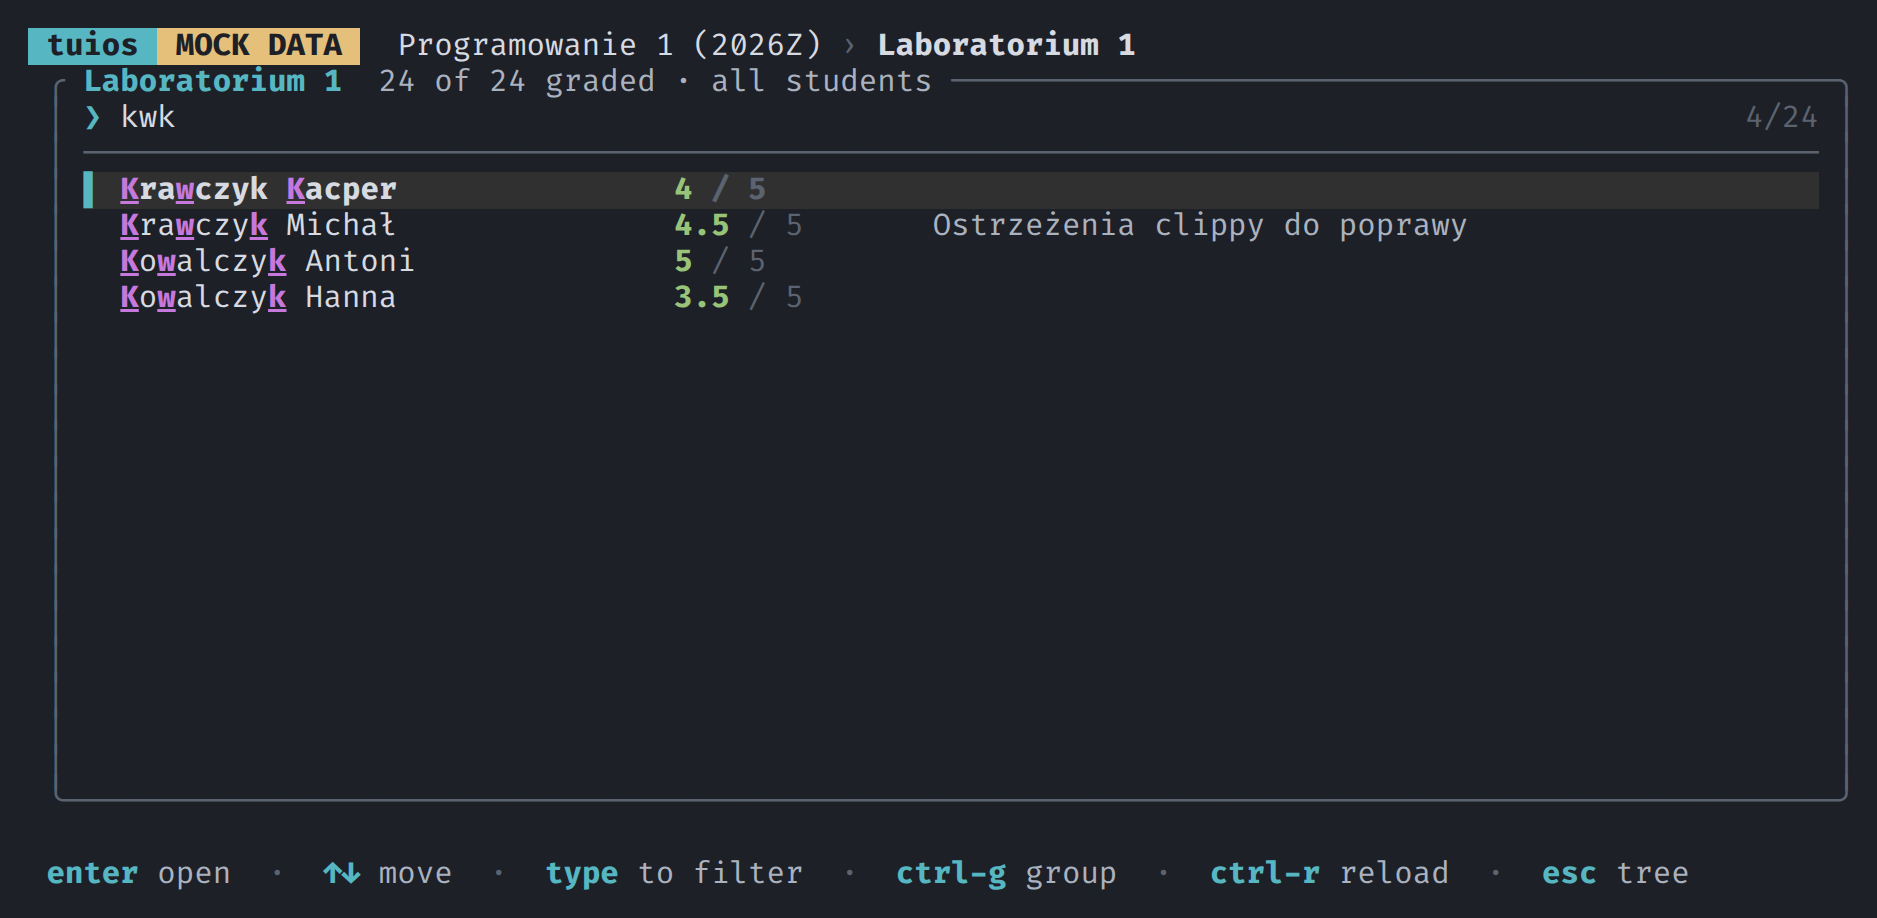
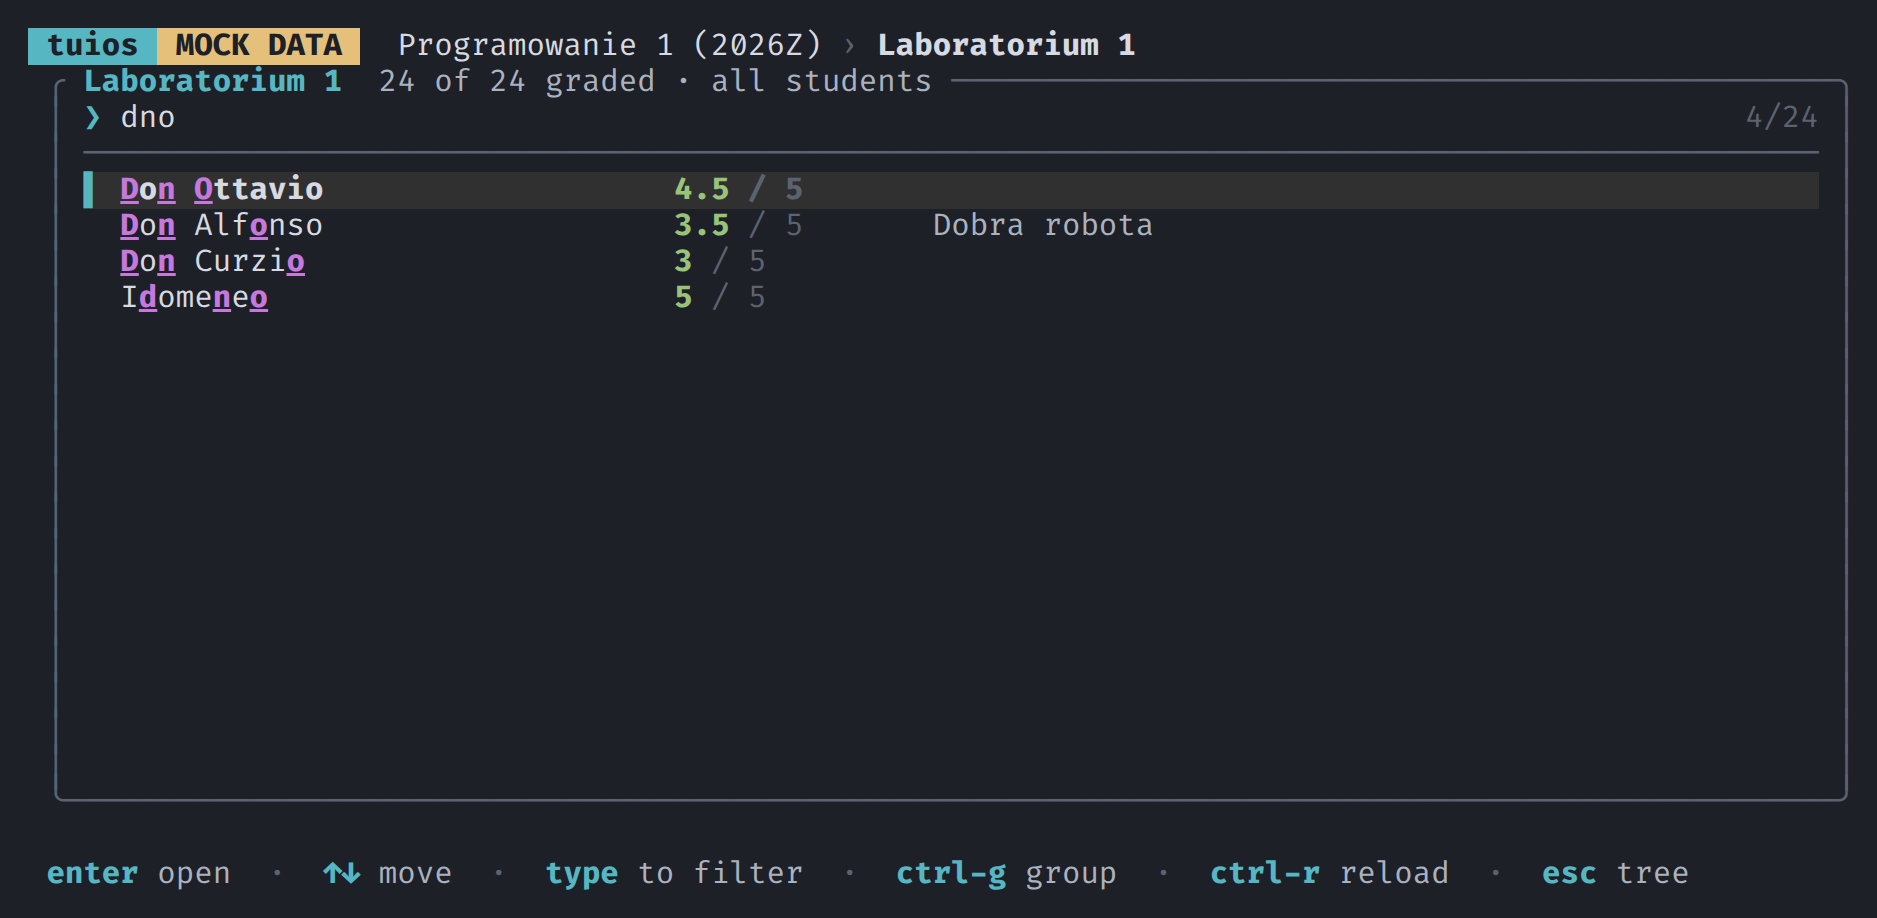
Name mock students after characters from Mozart's operas
Plausible Polish names made screenshots of the mock look like real
students; opera characters cannot be mistaken for anyone. The README
screenshots are retaken with the new cast.

diff --git a/src/usos.rs b/src/usos.rs
@@ -828,38 +828,60 @@ impl Rng {
 
 impl Mock {
     fn new() -> Self {
-        // (first name, takes the feminine surname form)
-        const FIRST: [(&str, bool); 16] = [
-            ("Anna", true),
-            ("Piotr", false),
-            ("Zofia", true),
-            ("Jakub", false),
-            ("Maja", true),
-            ("Kacper", false),
-            ("Julia", true),
-            ("Michał", false),
-            ("Hanna", true),
-            ("Antoni", false),
-            ("Lena", true),
-            ("Filip", false),
-            ("Oliwia", true),
-            ("Mikołaj", false),
-            ("Alicja", true),
-            ("Tymon", false),
-        ];
-        const LAST: [(&str, &str); 12] = [
-            ("Lewandowski", "Lewandowska"),
-            ("Wiśniewski", "Wiśniewska"),
-            ("Kowalczyk", "Kowalczyk"),
-            ("Zieliński", "Zielińska"),
-            ("Wójcik", "Wójcik"),
-            ("Kamiński", "Kamińska"),
-            ("Szymański", "Szymańska"),
-            ("Dąbrowski", "Dąbrowska"),
-            ("Mazur", "Mazur"),
-            ("Krawczyk", "Krawczyk"),
-            ("Pawłowski", "Pawłowska"),
-            ("Grabowski", "Grabowska"),
+        // Characters from Mozart's operas, so nobody can mistake a screenshot of the
+        // mock for real students. Each is one name, kept whole in `last_name`.
+        const CHARACTERS: [&str; 44] = [
+            // Le nozze di Figaro
+            "Figaro",
+            "Susanna",
+            "Cherubino",
+            "Barbarina",
+            "Marcellina",
+            "Bartolo",
+            "Basilio",
+            "Contessa Almaviva",
+            "Conte Almaviva",
+            "Don Curzio",
+            // Don Giovanni
+            "Don Giovanni",
+            "Leporello",
+            "Zerlina",
+            "Masetto",
+            "Donna Anna",
+            "Donna Elvira",
+            "Don Ottavio",
+            "Commendatore",
+            // Così fan tutte
+            "Fiordiligi",
+            "Dorabella",
+            "Despina",
+            "Ferrando",
+            "Guglielmo",
+            "Don Alfonso",
+            // Die Zauberflöte
+            "Tamino",
+            "Pamina",
+            "Papageno",
+            "Papagena",
+            "Sarastro",
+            "Monostatos",
+            "Königin der Nacht",
+            // Die Entführung aus dem Serail
+            "Konstanze",
+            "Blonde",
+            "Belmonte",
+            "Pedrillo",
+            "Osmin",
+            "Bassa Selim",
+            // Idomeneo
+            "Idomeneo",
+            "Idamante",
+            "Ilia",
+            "Elettra",
+            // La clemenza di Tito
+            "Vitellia",
+            "Sesto",
+            "Servilia",
         ];
         const COMMENTS: [&str; 6] = [
             "Dobra robota",
@@ -870,23 +892,14 @@ impl Mock {
             "Brakuje obsługi błędów",
         ];
         let mut rng = Rng::seeded();
-        let mut students: Vec<Person> = Vec::new();
-        while students.len() < 24 {
-            let (first, feminine) = *rng.pick(&FIRST);
-            let (m, f) = *rng.pick(&LAST);
-            let last = if feminine { f } else { m };
-            if students
-                .iter()
-                .any(|p| p.first_name == first && p.last_name == last)
-            {
-                continue;
-            }
-            students.push(Person {
-                id: format!("{}", 100 + students.len()),
-                first_name: first.into(),
-                last_name: last.into(),
-            });
-        }
+        let mut pool = CHARACTERS.to_vec();
+        let mut students: Vec<Person> = (0..24)
+            .map(|i| Person {
+                id: format!("{}", 100 + i),
+                first_name: String::new(),
+                last_name: pool.swap_remove(rng.below(pool.len())).into(),
+            })
+            .collect();
         sort_people(&mut students);
         let node = |id, parent, name: &str, kind| Node {
             id,

diff --git a/src/app.rs b/src/app.rs
@@ -312,7 +312,11 @@ impl App {
         self.tree
             .ready()
             .and_then(|t| t.students.iter().find(|s| s.id == id))
-            .map(|s| format!("{} {}", s.last_name, s.first_name))
+            .map(|s| {
+                format!("{} {}", s.last_name, s.first_name)
+                    .trim_end()
+                    .to_string()
+            })
             .unwrap_or_else(|| id.to_string())
     }
 
@@ -470,6 +474,8 @@ impl App {
             .map(|i| {
                 let s = &tree.students[i];
                 format!("{} {}", s.last_name, s.first_name)
+                    .trim_end()
+                    .to_string()
             })
             .collect()
     }

diff --git a/README.md b/README.md
@@ -12,11 +12,12 @@ But the code might be doing something stupid. Use at your own risk.
 
 ## Screenshots
 
-All screenshots show `tuios --mock`: made-up students, courses and points.
+All screenshots show `tuios --mock`: the students are characters from Mozart's operas,
+and the courses and points are made up.
 
 | | |
 |---|---|
-| ![Points and comments of every student for one task](docs/screenshots/students.png) | ![Fuzzy search: "kwk" finds Krawczyk and Kowalczyk](docs/screenshots/fuzzy.png) |
+| ![Points and comments of every student for one task](docs/screenshots/students.png) | ![Fuzzy search: "dno" finds Don Ottavio, Don Alfonso, Don Curzio and Idomeneo](docs/screenshots/fuzzy.png) |
 | Every student's points and comment for one task | Fuzzy search everywhere |
 | ![Entering points and a comment](docs/screenshots/form.png) | ![Choosing a grade on the 2–5 scale](docs/screenshots/grade.png) |
 | Points with a comment for the student | Grades, typed or picked with ←→ |
@@ -33,5 +34,5 @@ tuios
 ```
 
 To look around first without a USOS account, run `tuios --mock`. It never connects to
-USOS: the students, courses and points are random, made up on each start, and gone
-when the program exits.
+USOS: the students are a random cast from Mozart's operas, the courses and points are
+made up on each start, and all of it is gone when the program exits.
